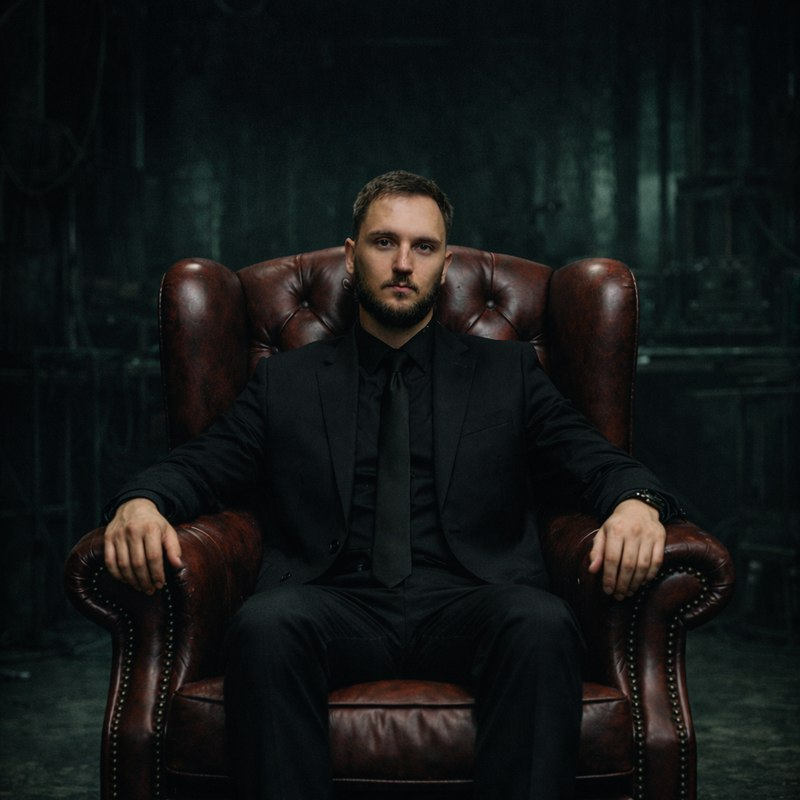
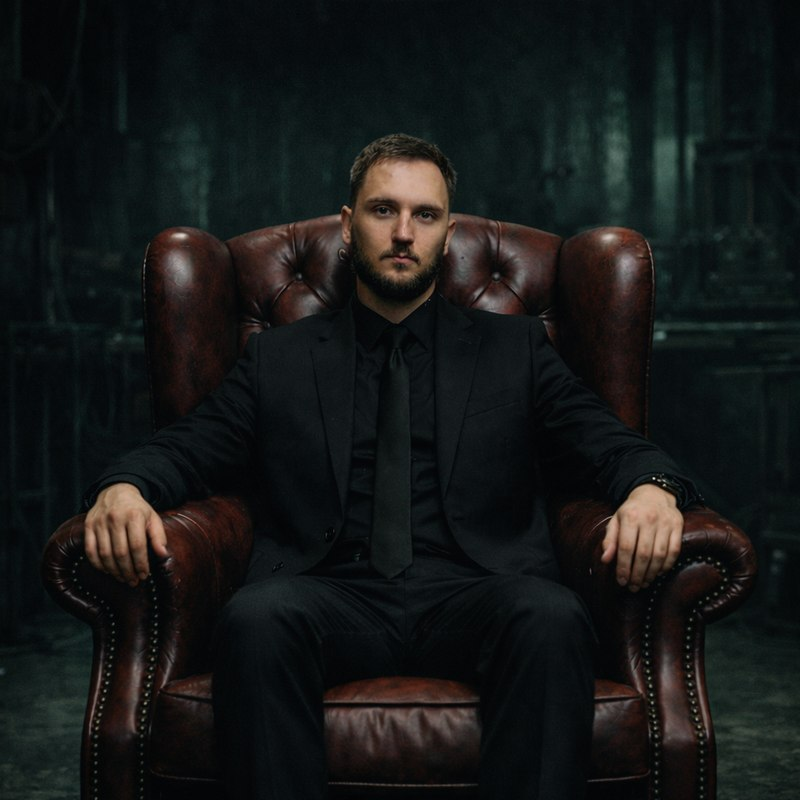
fix(lab): higher photo crop, drop targetologist from speaker caption
Portrait now framed from head to knees so the cut looks intentional; caption
reads 'Маркетолог · Создатель MarkVision AI'.

Claude-Session: https://claude.ai/code/session_01WcxbkNKpK84zT1BSctQaGg

diff --git a/src/pages/Lab.tsx b/src/pages/Lab.tsx
@@ -579,7 +579,7 @@ const Lab = () => {
                 <AuthorPhoto />
                 <div className="mt-6 text-center">
                   <div className="text-2xl font-extrabold">Юрий</div>
-                  <div className="mt-1 text-sm text-muted-foreground">Маркетолог · Таргетолог · Создатель MarkVision AI</div>
+                  <div className="mt-1 text-sm text-muted-foreground">Маркетолог · Создатель MarkVision AI</div>
                 </div>
                 <div className="mt-6 grid grid-cols-2 gap-3 text-center">
                   {[
